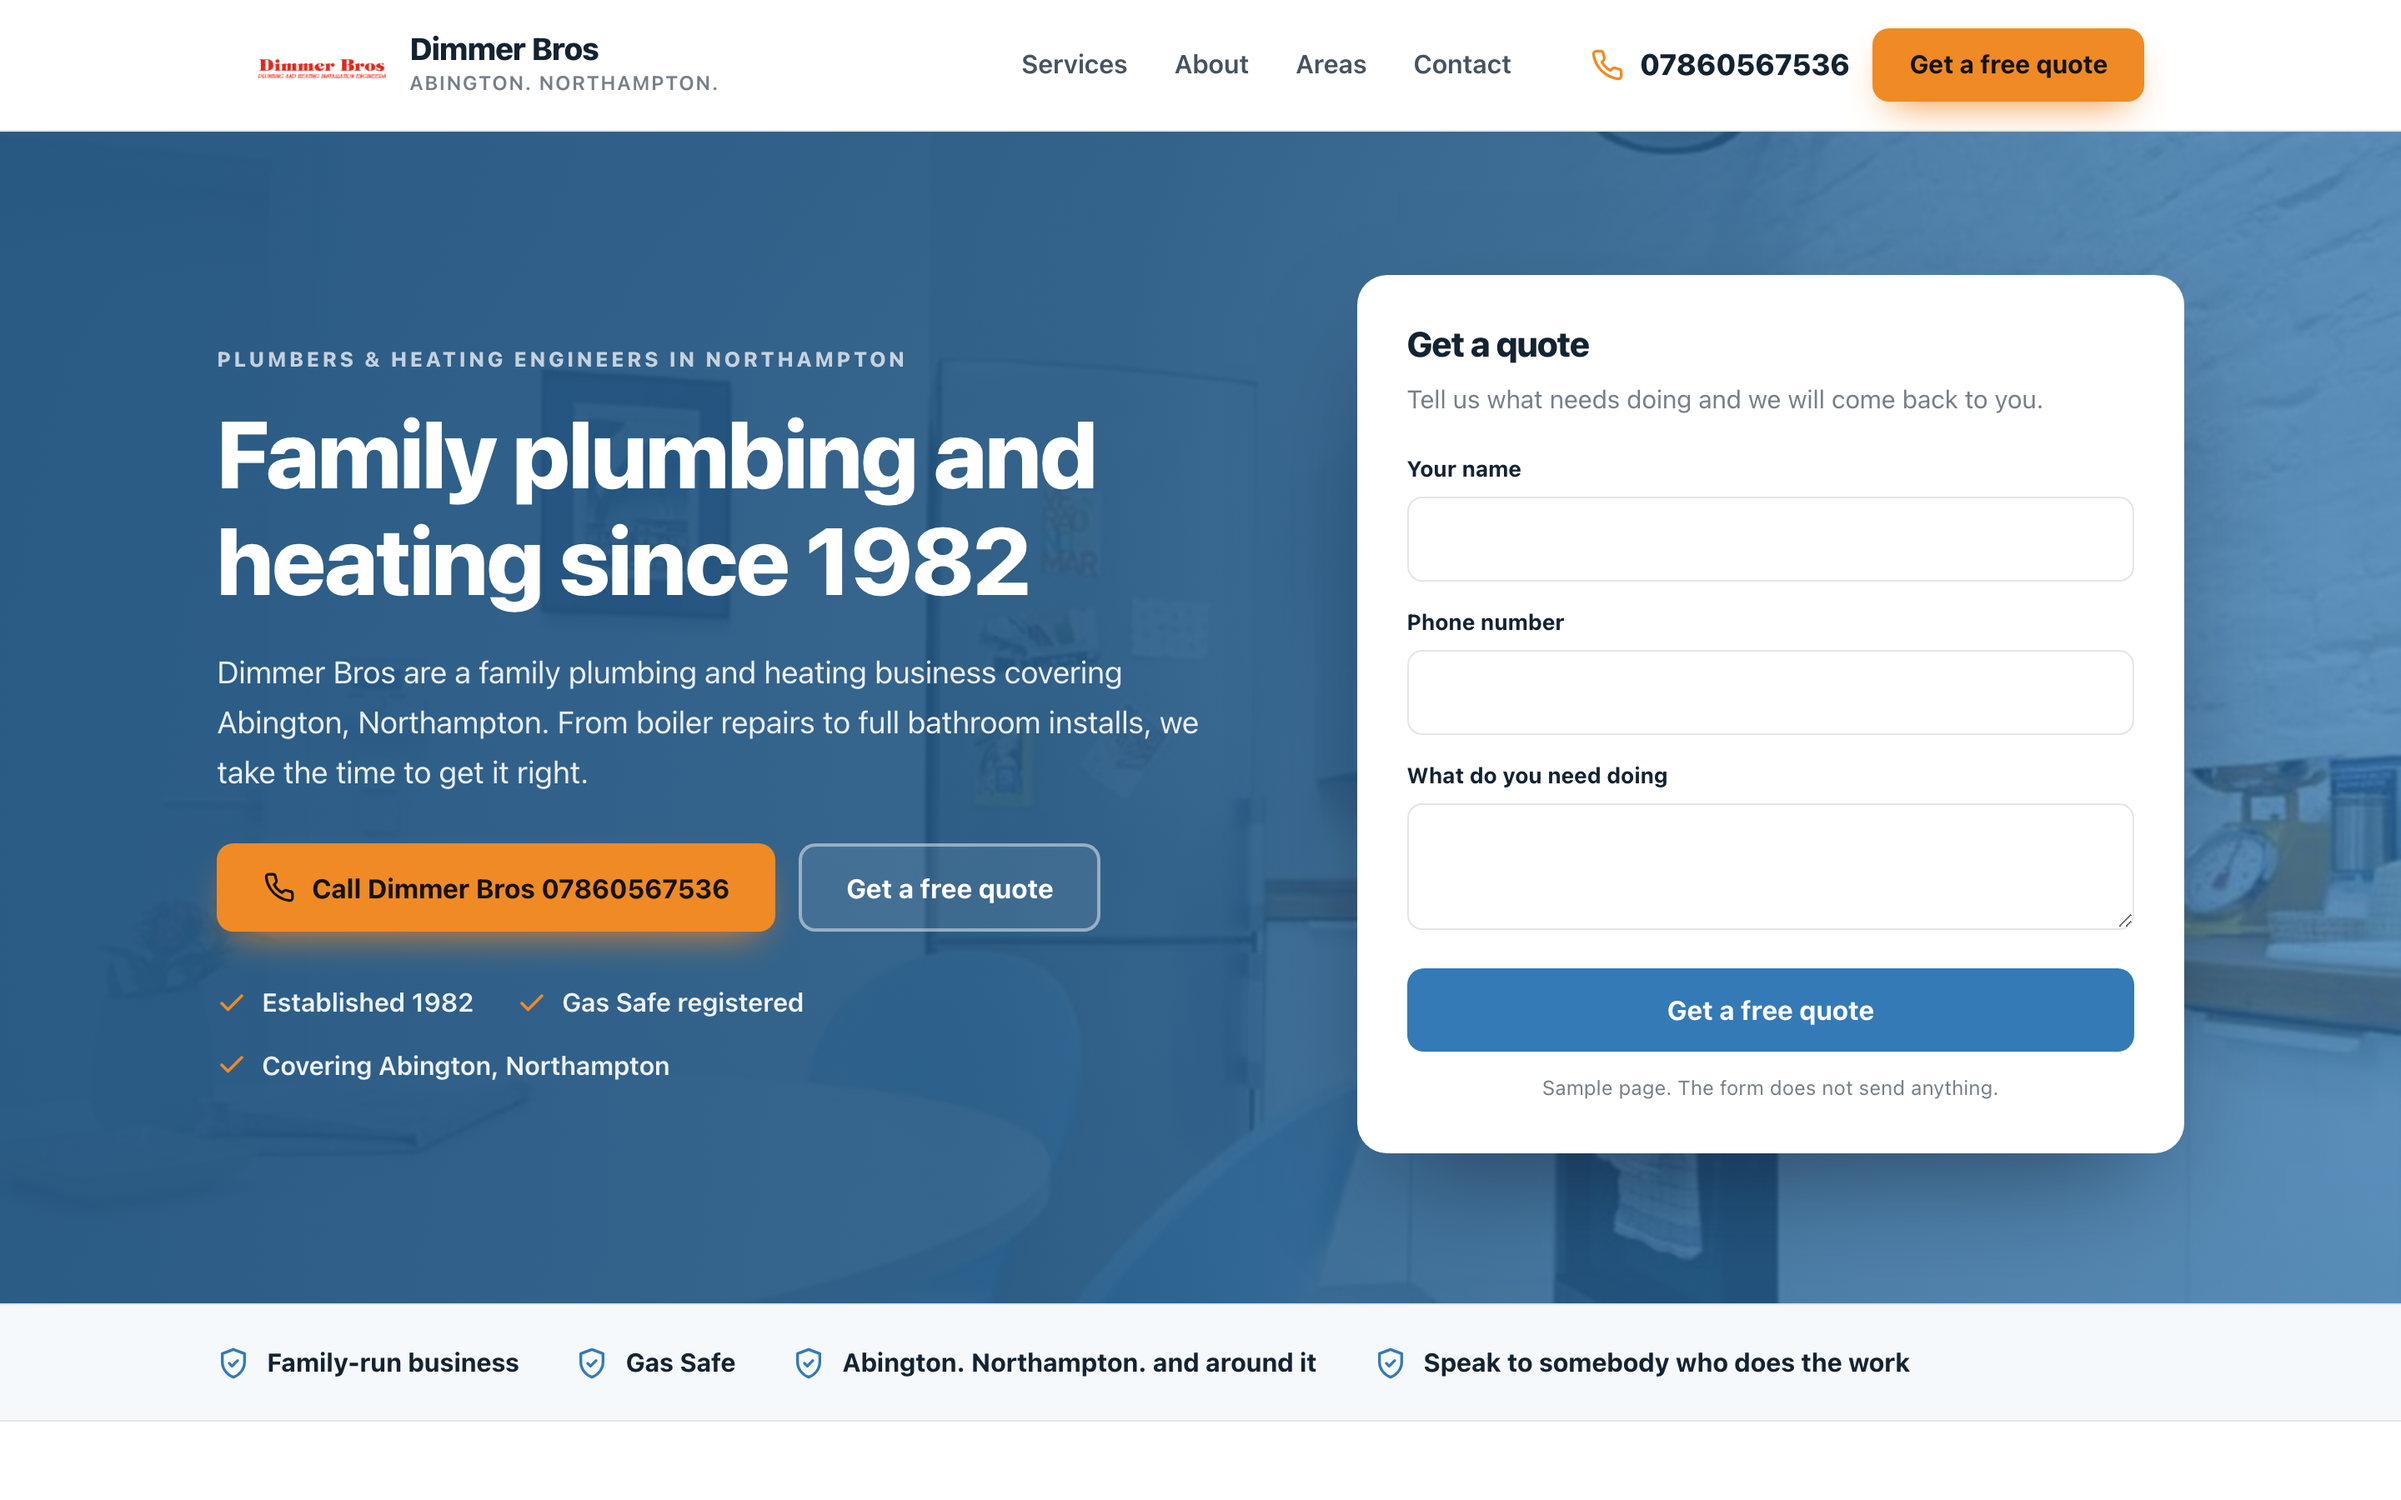
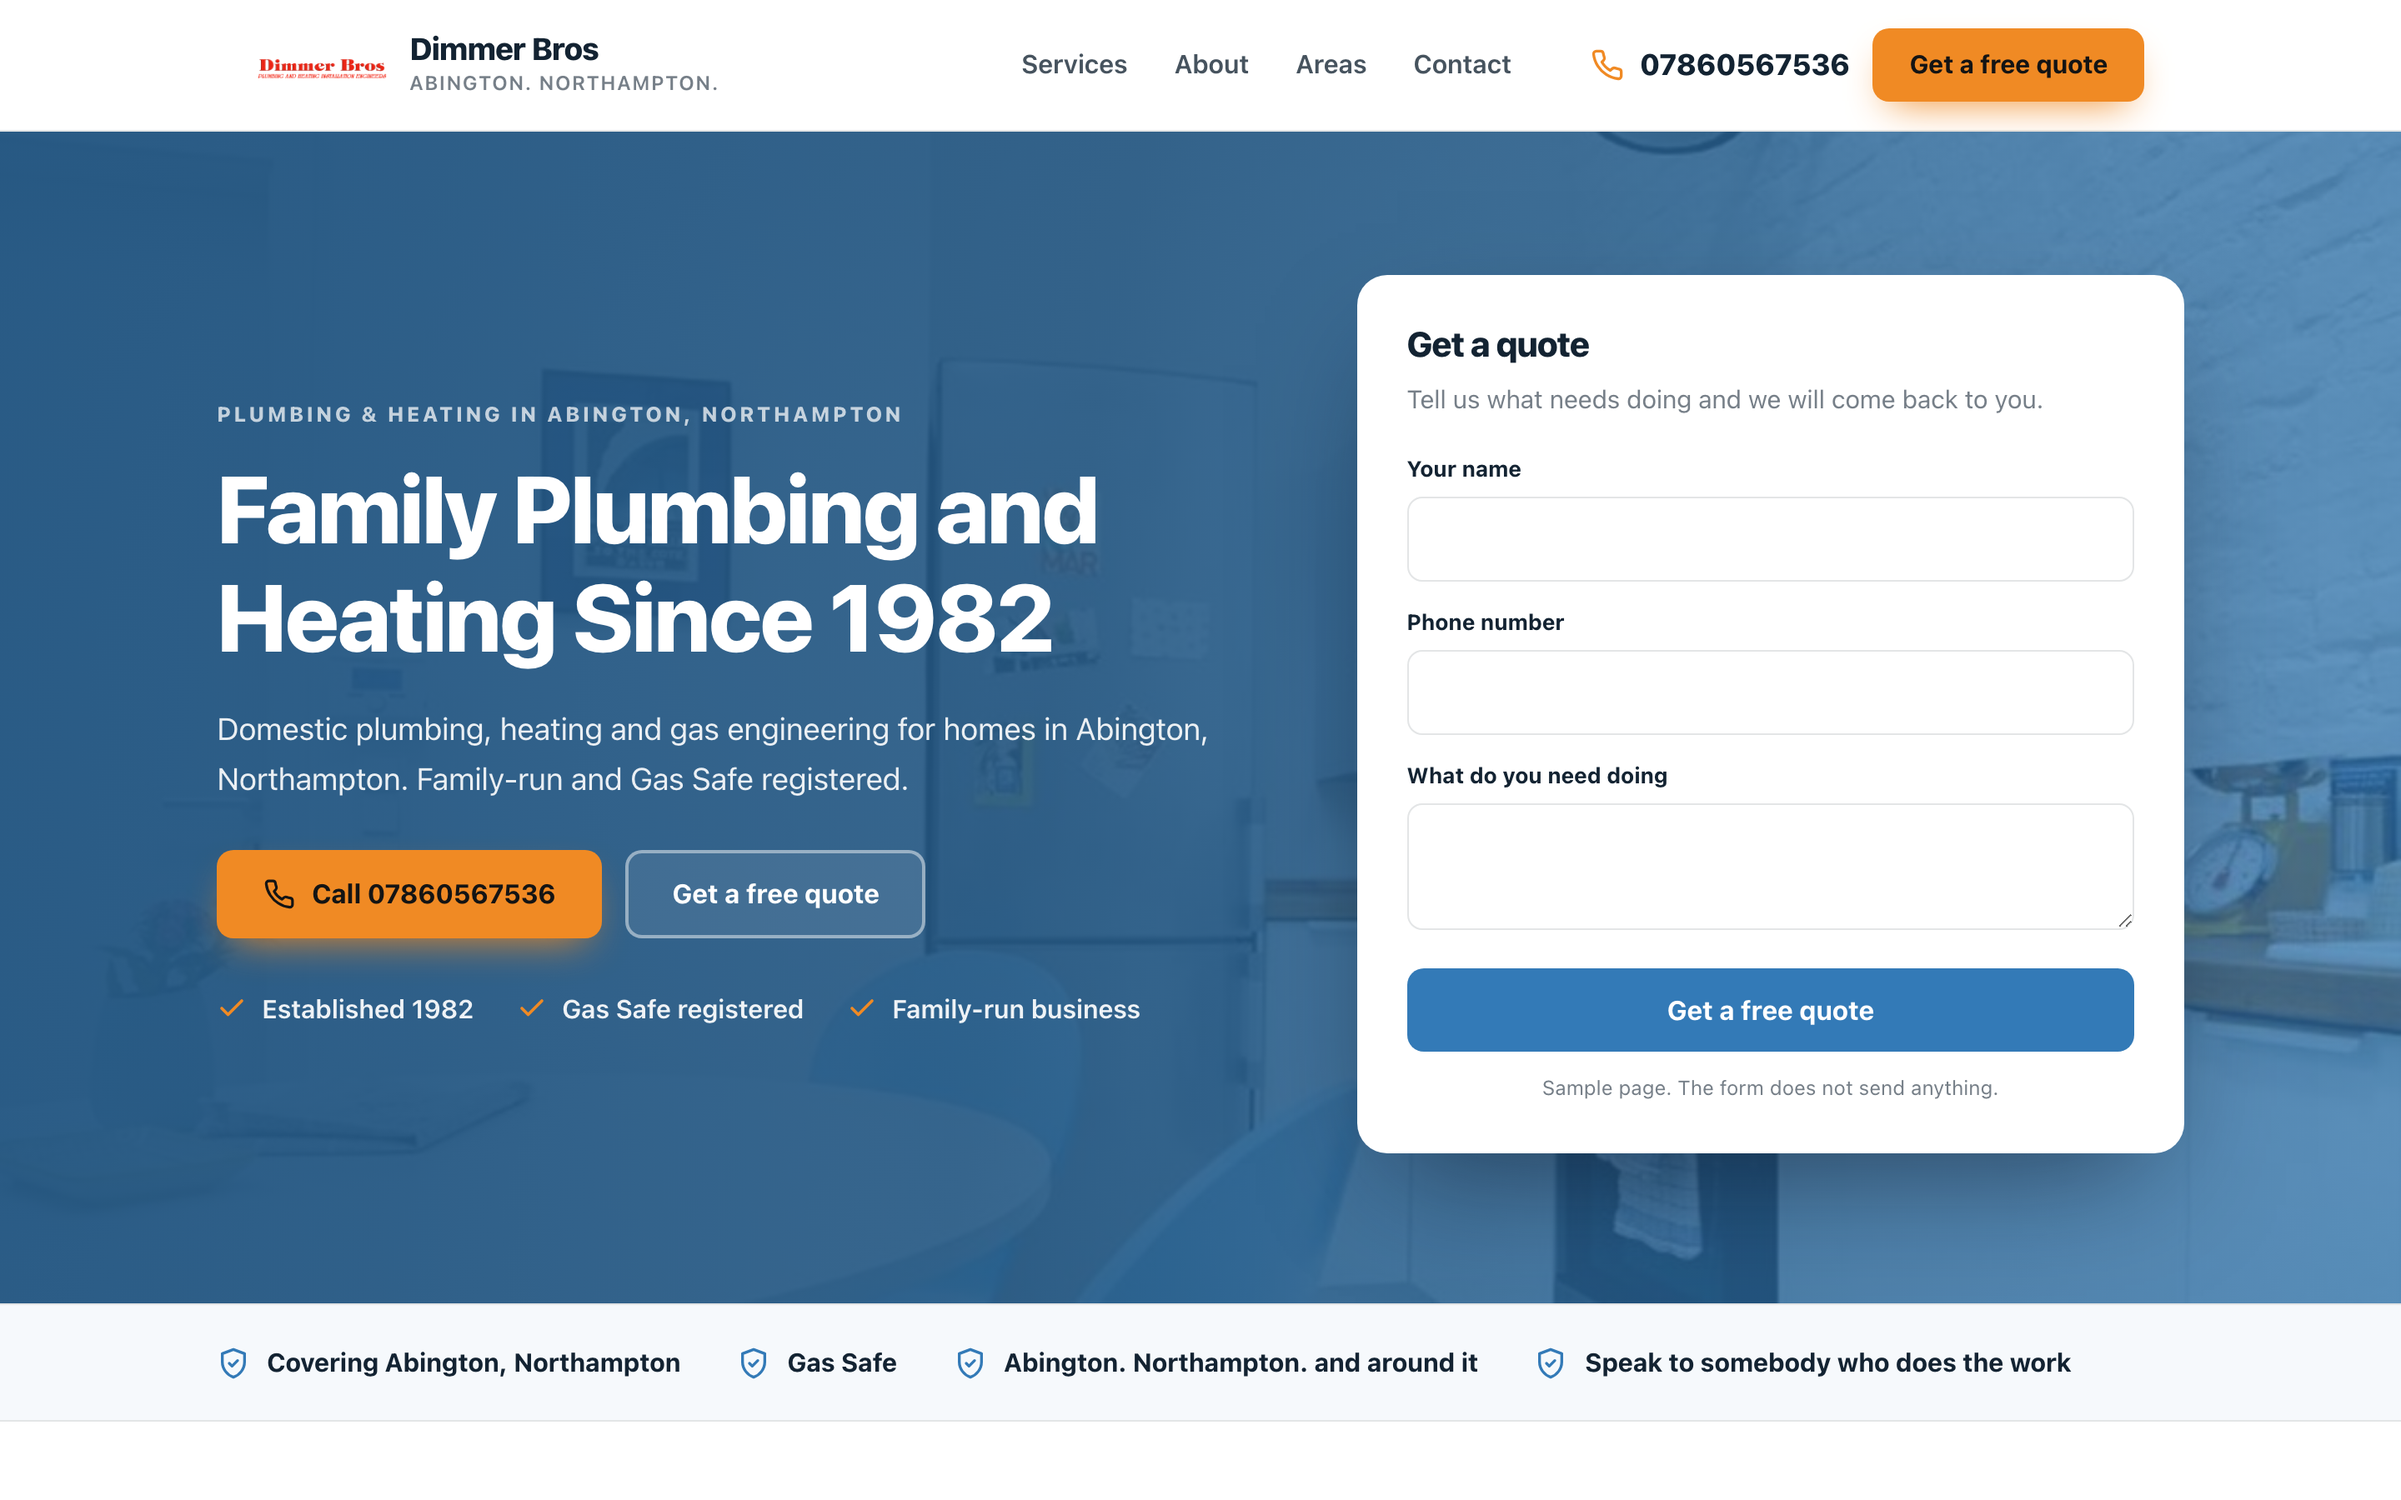
Sample homepage for Dimmer Bros

diff --git a/docs/7939d5610e/index.html b/docs/7939d5610e/index.html
@@ -6,11 +6,11 @@
 <meta name="robots" content="noindex,nofollow">
 <meta name="aso-build" content="">
 <title>Dimmer Bros sample homepage</title>
-<meta name="description" content="Dimmer Bros are a family plumbing and heating business covering Abington, Northampton. From boiler repairs to full bathroom installs, we take the time to get it right.">
+<meta name="description" content="Domestic plumbing, heating and gas engineering for homes in Abington, Northampton. Family-run and Gas Safe registered.">
 <link rel="canonical" href="https://markygff.github.io/aso-mockups/7939d5610e/">
 <meta property="og:type" content="website">
 <meta property="og:title" content="Dimmer Bros sample homepage">
-<meta property="og:description" content="Dimmer Bros are a family plumbing and heating business covering Abington, Northampton. From boiler repairs to full bathroom installs, we take the time to get it right.">
+<meta property="og:description" content="Domestic plumbing, heating and gas engineering for homes in Abington, Northampton. Family-run and Gas Safe registered.">
 <meta property="og:url" content="https://markygff.github.io/aso-mockups/7939d5610e/">
 <meta property="og:image" content="img/p01.jpg"><style>
 :root{
@@ -139,15 +139,15 @@ p{margin:0}
   <div class="hero-bg"><img src="img/p01.jpg" alt="Dimmer Bros at work" width="1600" height="900"></div>
   <div class="wrap hero-in">
     <div>
-      <p class="eyebrow">Plumbers &amp; heating engineers in Northampton</p>
-      <h1>Family plumbing and heating since 1982</h1>
-      <p class="hero-sub">Dimmer Bros are a family plumbing and heating business covering Abington, Northampton. From boiler repairs to full bathroom installs, we take the time to get it right.</p>
+      <p class="eyebrow">Plumbing &amp; Heating in Abington, Northampton</p>
+      <h1>Family Plumbing and Heating Since 1982</h1>
+      <p class="hero-sub">Domestic plumbing, heating and gas engineering for homes in Abington, Northampton. Family-run and Gas Safe registered.</p>
       <div class="hero-actions">
-        <span class="btn btn-accent"><svg viewBox="0 0 24 24" fill="none" stroke="currentColor" stroke-width="2" stroke-linecap="round" stroke-linejoin="round" aria-hidden="true"><path d="M22 16.9v3a2 2 0 0 1-2.2 2 19.8 19.8 0 0 1-8.6-3.1 19.5 19.5 0 0 1-6-6 19.8 19.8 0 0 1-3.1-8.7A2 2 0 0 1 4.1 2h3a2 2 0 0 1 2 1.7c.1 1 .4 1.9.7 2.8a2 2 0 0 1-.5 2.1L8.1 9.9a16 16 0 0 0 6 6l1.3-1.2a2 2 0 0 1 2.1-.5c.9.3 1.8.6 2.8.7a2 2 0 0 1 1.7 2z"/></svg>Call Dimmer Bros 07860567536</span>
+        <span class="btn btn-accent"><svg viewBox="0 0 24 24" fill="none" stroke="currentColor" stroke-width="2" stroke-linecap="round" stroke-linejoin="round" aria-hidden="true"><path d="M22 16.9v3a2 2 0 0 1-2.2 2 19.8 19.8 0 0 1-8.6-3.1 19.5 19.5 0 0 1-6-6 19.8 19.8 0 0 1-3.1-8.7A2 2 0 0 1 4.1 2h3a2 2 0 0 1 2 1.7c.1 1 .4 1.9.7 2.8a2 2 0 0 1-.5 2.1L8.1 9.9a16 16 0 0 0 6 6l1.3-1.2a2 2 0 0 1 2.1-.5c.9.3 1.8.6 2.8.7a2 2 0 0 1 1.7 2z"/></svg>Call 07860567536</span>
         <span class="btn btn-ghost">Get a free quote</span>
       </div>
       <ul class="hero-bullets">
-<li><svg viewBox="0 0 24 24" fill="none" stroke="currentColor" stroke-width="2.4" stroke-linecap="round" stroke-linejoin="round" aria-hidden="true"><path d="M20 6 9 17l-5-5"/></svg><span>Established 1982</span></li><li><svg viewBox="0 0 24 24" fill="none" stroke="currentColor" stroke-width="2.4" stroke-linecap="round" stroke-linejoin="round" aria-hidden="true"><path d="M20 6 9 17l-5-5"/></svg><span>Gas Safe registered</span></li><li><svg viewBox="0 0 24 24" fill="none" stroke="currentColor" stroke-width="2.4" stroke-linecap="round" stroke-linejoin="round" aria-hidden="true"><path d="M20 6 9 17l-5-5"/></svg><span>Covering Abington, Northampton</span></li>      </ul>
+<li><svg viewBox="0 0 24 24" fill="none" stroke="currentColor" stroke-width="2.4" stroke-linecap="round" stroke-linejoin="round" aria-hidden="true"><path d="M20 6 9 17l-5-5"/></svg><span>Established 1982</span></li><li><svg viewBox="0 0 24 24" fill="none" stroke="currentColor" stroke-width="2.4" stroke-linecap="round" stroke-linejoin="round" aria-hidden="true"><path d="M20 6 9 17l-5-5"/></svg><span>Gas Safe registered</span></li><li><svg viewBox="0 0 24 24" fill="none" stroke="currentColor" stroke-width="2.4" stroke-linecap="round" stroke-linejoin="round" aria-hidden="true"><path d="M20 6 9 17l-5-5"/></svg><span>Family-run business</span></li>      </ul>
     </div>
     <div class="quote-card">
       <h3>Get a quote</h3>
@@ -163,7 +163,7 @@ p{margin:0}
 
 <div class="strip">
   <div class="wrap strip-in">
-    <div class="strip-item"><svg viewBox="0 0 24 24" fill="none" stroke="currentColor" stroke-width="2" stroke-linecap="round" stroke-linejoin="round" aria-hidden="true"><path d="M12 2 4 5v6c0 5 3.4 9.4 8 11 4.6-1.6 8-6 8-11V5z"/><path d="m9 12 2 2 4-4"/></svg><span>Family-run business</span></div>
+    <div class="strip-item"><svg viewBox="0 0 24 24" fill="none" stroke="currentColor" stroke-width="2" stroke-linecap="round" stroke-linejoin="round" aria-hidden="true"><path d="M12 2 4 5v6c0 5 3.4 9.4 8 11 4.6-1.6 8-6 8-11V5z"/><path d="m9 12 2 2 4-4"/></svg><span>Covering Abington, Northampton</span></div>
     <div class="strip-item"><svg viewBox="0 0 24 24" fill="none" stroke="currentColor" stroke-width="2" stroke-linecap="round" stroke-linejoin="round" aria-hidden="true"><path d="M12 2 4 5v6c0 5 3.4 9.4 8 11 4.6-1.6 8-6 8-11V5z"/><path d="m9 12 2 2 4-4"/></svg><span>Gas Safe</span></div>
     <div class="strip-item"><svg viewBox="0 0 24 24" fill="none" stroke="currentColor" stroke-width="2" stroke-linecap="round" stroke-linejoin="round" aria-hidden="true"><path d="M12 2 4 5v6c0 5 3.4 9.4 8 11 4.6-1.6 8-6 8-11V5z"/><path d="m9 12 2 2 4-4"/></svg><span>Abington. Northampton. and around it</span></div>
     <div class="strip-item"><svg viewBox="0 0 24 24" fill="none" stroke="currentColor" stroke-width="2" stroke-linecap="round" stroke-linejoin="round" aria-hidden="true"><path d="M12 2 4 5v6c0 5 3.4 9.4 8 11 4.6-1.6 8-6 8-11V5z"/><path d="m9 12 2 2 4-4"/></svg><span>Speak to somebody who does the work</span></div>
@@ -175,28 +175,28 @@ p{margin:0}
     <div class="services-head">
       <p class="eyebrow">What we do</p>
       <h2>Dimmer Bros, Abington. Northampton.</h2>
-      <p>Dimmer Bros are a family plumbing and heating business covering Abington, Northampton. From boiler repairs to full bathroom installs, we take the time to get it right.</p>
+      <p>Domestic plumbing, heating and gas engineering for homes in Abington, Northampton. Family-run and Gas Safe registered.</p>
     </div>
     <div class="grid">
       <article class="card">
         <div class="icon"><svg viewBox="0 0 24 24" fill="none" stroke="currentColor" stroke-width="2" stroke-linecap="round" stroke-linejoin="round" aria-hidden="true"><path d="M14.7 6.3a4 4 0 0 0 5.3 5.3l-8 8a3 3 0 0 1-4.2-4.2z"/><path d="m14.7 6.3 3-3"/></svg></div>
-        <h3>Boiler replacement, servicing &amp; repairs</h3>
-        <p>From a quick service to a full replacement, we keep your heating running.</p>
+        <h3>Plumbing</h3>
+        <p>Domestic plumbing installation, from a new tap to a full re-pipe.</p>
       </article>
       <article class="card">
         <div class="icon"><svg viewBox="0 0 24 24" fill="none" stroke="currentColor" stroke-width="2" stroke-linecap="round" stroke-linejoin="round" aria-hidden="true"><path d="M13 2 4 14h7l-1 8 9-12h-7z"/></svg></div>
-        <h3>Bathroom Installation</h3>
-        <p>Full bathroom fit-outs, done properly and left tidy.</p>
+        <h3>Heating</h3>
+        <p>Boiler replacement, servicing and repairs from a Gas Safe engineer.</p>
       </article>
       <article class="card">
         <div class="icon"><svg viewBox="0 0 24 24" fill="none" stroke="currentColor" stroke-width="2" stroke-linecap="round" stroke-linejoin="round" aria-hidden="true"><path d="M3 10.5 12 3l9 7.5"/><path d="M5 9.5V21h14V9.5"/><path d="M10 21v-6h4v6"/></svg></div>
-        <h3>Gas Engineer</h3>
-        <p>Gas Safe registered work for your heating and hot water.</p>
+        <h3>Bathroom Installation</h3>
+        <p>New baths, showers, sinks and toilets fitted properly.</p>
       </article>
       <article class="card">
         <div class="icon"><svg viewBox="0 0 24 24" fill="none" stroke="currentColor" stroke-width="2" stroke-linecap="round" stroke-linejoin="round" aria-hidden="true"><path d="M4 20 15 9"/><path d="m14 4 6 6-3 3-6-6z"/><path d="m3 15 6 6"/></svg></div>
-        <h3>Kitchen Installation</h3>
-        <p>Plumbing for new kitchens, fitted around your build.</p>
+        <h3>Bespoke Projects</h3>
+        <p>Kitchen and bathroom work planned around your home and your builders.</p>
       </article>
     </div>
   </div>
